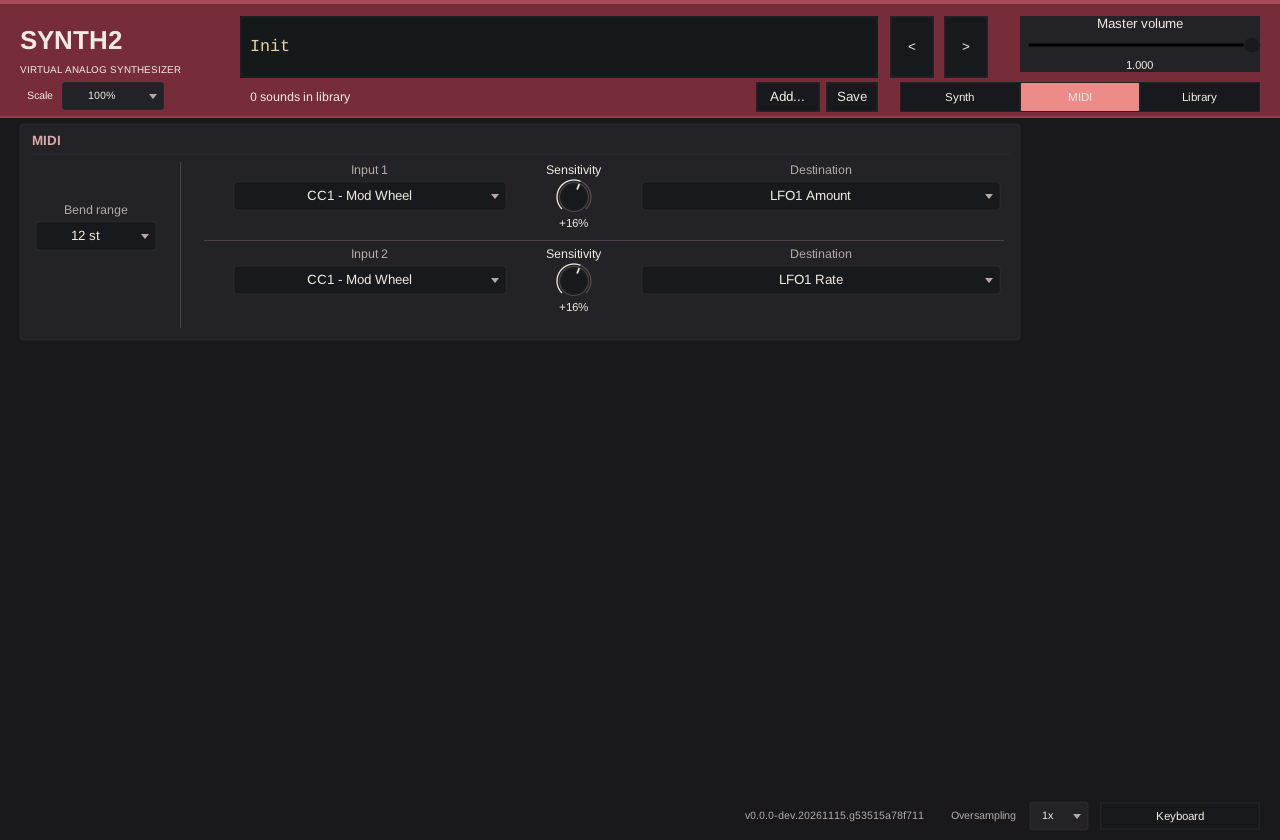
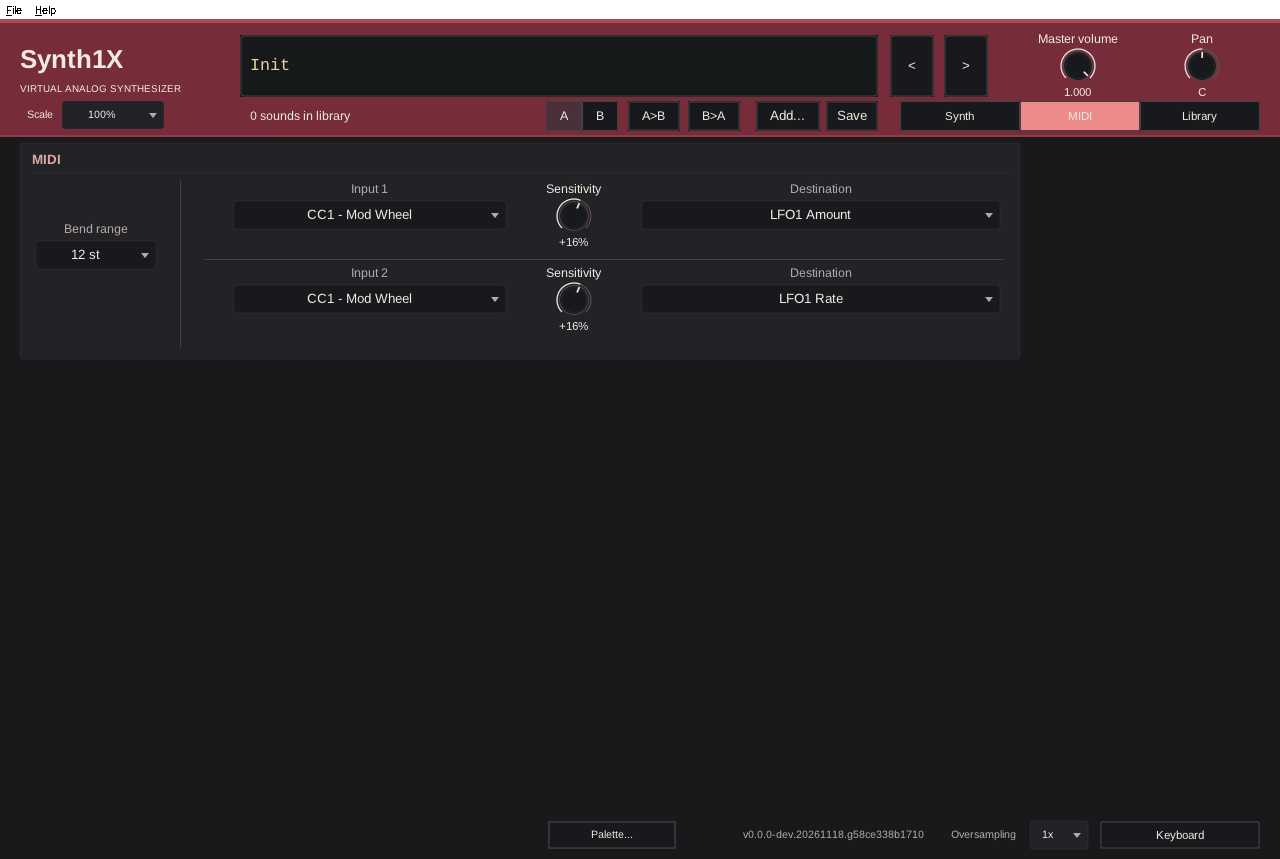
Update remaining branding and write Palette XML

diff --git a/projects/Synth2/src/host/EditorPaletteStore.cpp b/projects/Synth2/src/host/EditorPaletteStore.cpp
@@ -15,6 +15,7 @@
 namespace synth2::host
 {
 namespace {
+constexpr char paletteTag[]="Palette";
[1 lines of base64/hex data omitted]
 std::string encodeImage(const std::vector<std::uint8_t>& bytes)
 {
@@ -72,9 +73,10 @@ bool readPalette(const std::filesystem::path& path,editor::EditorPalette& palett
         tinyxml2::XMLDocument doc;
         if(doc.Parse(text.data(),text.size())!=tinyxml2::XML_SUCCESS)throw std::runtime_error("Invalid palette file.");
         const auto* root=doc.RootElement();
-        if(!root || std::string_view(root->Name())!="Synth2Palette" || (root->IntAttribute("version")!=1 && root->IntAttribute("version")!=2))
+        const std::string_view tag=root ? root->Name() : "";
+        const int version=root ? root->IntAttribute("version") : 0;
+        if((tag!=paletteTag && tag!="Synth2Palette") || (version!=1 && version!=2))
             throw std::runtime_error("Unsupported palette file version.");
-        const int version=root->IntAttribute("version");
         if(version==1 && text.size()>65536)throw std::runtime_error("Palette file is too large.");
         editor::EditorPalette next;
         // Stored files contain explicit overrides only, including the default Filter overrides.
@@ -137,7 +139,7 @@ bool EditorPaletteStore::save(const std::filesystem::path& path,const editor::Ed
     error.clear();std::filesystem::path temporary;
     try {
         if(path.empty())throw std::runtime_error("Palette preferences folder is unavailable.");
-        tinyxml2::XMLDocument doc;auto* root=doc.NewElement("Synth2Palette");root->SetAttribute("version",palette.backgroundImage ? 2 : 1);doc.InsertEndChild(root);
+        tinyxml2::XMLDocument doc;auto* root=doc.NewElement(paletteTag);root->SetAttribute("version",palette.backgroundImage ? 2 : 1);doc.InsertEndChild(root);
         const auto add=[&](std::size_t role,editor::EditorColor color,int group) {
             auto* item=doc.NewElement("Color");item->SetAttribute("role",std::string(editor::paletteRoleKeys[role]).c_str());
             item->SetAttribute("rgba",color.hex().c_str());

diff --git a/tests/EditorPaletteTest.cpp b/tests/EditorPaletteTest.cpp
@@ -144,6 +144,10 @@ TEST_F(EditorPaletteTest,ExportedDraftImportsAllScopesAndAlphaWithoutApplyingThe
     draft.inherit(paletteGroup("FILTER"));
     const auto file=directory/std::filesystem::path(u8"palette-\u65e5\u672c.xml");
     std::string error;ASSERT_TRUE(EditorPaletteStore::save(file,draft,error))<<error;
+    std::ifstream exported(file);
+    std::string firstLine;
+    ASSERT_TRUE(static_cast<bool>(std::getline(exported,firstLine)));
+    EXPECT_EQ(firstLine,"<Palette version=\"1\">");
     EXPECT_TRUE(edit.modified(draft)); // Export does not Apply the preview.
     EXPECT_FALSE(std::filesystem::exists(directory/"palette.xml"));
     EditorPalette imported;
@@ -197,9 +201,18 @@ TEST_F(EditorPaletteTest,EmbeddedImagesRoundTripWithoutTheOriginalFileAndLegacyI
         ASSERT_TRUE(EditorPaletteStore::readImage(source,draft,error))<<error;
         EditorPaletteEdit edit;edit.begin(EditorPalette{});EXPECT_TRUE(edit.modified(draft));
         ASSERT_TRUE(EditorPaletteStore::save(directory/"palette.xml",draft,error))<<error;
+        std::ifstream exported(directory/"palette.xml");
+        std::string xml((std::istreambuf_iterator<char>(exported)),{});
+        exported.close();
+        ASSERT_TRUE(xml.starts_with("<Palette version=\"2\">"));
         ASSERT_TRUE(std::filesystem::remove(source));
         EditorPalette loaded;ASSERT_TRUE(EditorPaletteStore::importFile(directory/"palette.xml",loaded,error))<<error;
         EXPECT_EQ(loaded,draft);EXPECT_EQ(loaded.backgroundImage->bytes.size(),bytes.size()-suffix);
+        xml.replace(xml.rfind("</Palette>"),10,"</Synth2Palette>");
+        xml.replace(1,7,"Synth2Palette");
+        write(xml);
+        ASSERT_TRUE(EditorPaletteStore::importFile(directory/"palette.xml",loaded,error))<<error;
+        EXPECT_EQ(loaded,draft);
         EXPECT_TRUE(edit.modified(draft));
         write("<Synth2Palette version='1'/>");
         ASSERT_TRUE(EditorPaletteStore::importFile(directory/"palette.xml",loaded,error))<<error;

diff --git a/projects/Synth2/src/patch/PatchFormat.cpp b/projects/Synth2/src/patch/PatchFormat.cpp
@@ -91,16 +91,16 @@ ContinuousPatch parseContinuousPatch(std::string_view text)
         }
         if(header && line.find('=')!=std::string::npos)continue;
         const auto comma=line.find(',');
-        if(!header || comma==std::string::npos)throw std::runtime_error("Malformed Synth2 patch entry");
+        if(!header || comma==std::string::npos)throw std::runtime_error("Malformed Synth1X patch entry");
         const int index=number<int>(trimPatchLine(line.substr(0,comma)));
         const float value=number<float>(trimPatchLine(line.substr(comma+1)));
         validate(index,value);
         if(seen[index])throw std::runtime_error("Duplicate patch parameter");
         patch.values[index]=value;seen[index]=true;
     }
-    if(!header)throw std::runtime_error("Missing Synth2 patch version");
+    if(!header)throw std::runtime_error("Missing Synth1X patch version");
     // Complete snapshots avoid defaults changing the sound in future releases.
-    for(int i=0;i<129;++i)if(i!=126 && !seen[i])throw std::runtime_error("Incomplete Synth2 patch");
+    for(int i=0;i<129;++i)if(i!=126 && !seen[i])throw std::runtime_error("Incomplete Synth1X patch");
     patch.values[126]=113;
     if(patch.name.empty())patch.name="Untitled";
     return patch;

diff --git a/projects/Synth2/src/host/ProcessorBridge.cpp b/projects/Synth2/src/host/ProcessorBridge.cpp
@@ -456,7 +456,7 @@ double ProcessorBridge::normalizedValue(int index)const{return impl->normalized(
 void ProcessorBridge::setNormalizedValue(int index,double value){impl->setNormalized(index,value);}
 void ProcessorBridge::prepare(double rate,int frames)
 {
-    if(!std::isfinite(rate) || rate<=0 || !std::isfinite(static_cast<float>(rate)) || static_cast<float>(rate)<=0 || frames<=0)throw std::invalid_argument("Invalid Synth2 playback configuration");
+    if(!std::isfinite(rate) || rate<=0 || !std::isfinite(static_cast<float>(rate)) || static_cast<float>(rate)<=0 || frames<=0)throw std::invalid_argument("Invalid Synth1X playback configuration");
     impl->scratch.setSize(2,frames);impl->eventCount=0;impl->overflow=false;impl->midi.clear();
     impl->flushNativeLfoHistory();if(rate!=44100. || frames!=64)impl->engine.invalidateNativeRandomHistory();
     impl->engine.prepareToPlay(static_cast<float>(rate),frames);impl->engine.setOversamplingFactor(impl->requestedOversampling.load());

diff --git a/projects/Synth2/src/patch/PatchLoader.cpp b/projects/Synth2/src/patch/PatchLoader.cpp
@@ -40,7 +40,7 @@ Synth1PatchDocument parsePatchDocument(std::string_view text)
     {
         line=trimPatchLine(line);
         if(line.empty())continue;
-        if(cleaned.empty() && !named)cleaned="Synth2 preset\n";
+        if(cleaned.empty() && !named)cleaned="Synth1X preset\n";
         cleaned+=line+'\n';
     }
     return parseSynth1PatchText(cleaned,true);

diff --git a/projects/Synth2/config.h b/projects/Synth2/config.h
@@ -9,7 +9,7 @@
 #define PLUG_MFR_ID 'BABA'
 #define PLUG_URL_STR ""
 #define PLUG_EMAIL_STR ""
-#define PLUG_COPYRIGHT_STR "Copyright 2026 Synth2 contributors"
+#define PLUG_COPYRIGHT_STR "Copyright 2026 Synth1X contributors"
 #define PLUG_CLASS_NAME Synth2
 #define BUNDLE_NAME "Synth2"
 #define BUNDLE_MFR "yasuyuki-baba"

diff --git a/docs/status.md b/docs/status.md
@@ -1,13 +1,13 @@
 # Product capabilities and verification boundaries
 
 Start with the [product contracts](README.md) and [test guide](../tests/README.md).
-Synth2 builds and runs its portable suite without an original Synth1 DLL, Wine,
+Synth1X builds and runs its portable suite without an original Synth1 DLL, Wine,
 JUCE or another repository. Native wrappers require their platform SDKs.
 
 | Area | Required behavior / boundary |
 | --- | --- |
 | Product source | iPlug2 wrapper/editor and SDK-independent core under projects/Synth2 |
-| Patch loading | Synth2 version 200 preserves fractional dials; accepts legacy 1–113 and named unversioned sources; native evidence for 100/104–113; transactional failure; original source values retained |
+| Patch loading | Synth1X version 200 preserves fractional dials; accepts legacy 1–113 and named unversioned sources; native evidence for 100/104–113; transactional failure; original source values retained |
 | Library archives | ZIP, RAR and 7z banks remain intact; RAR4 stored/compressed, RAR5 solid/compressed, and 7z stored/LZMA/LZMA2/PPMd reads; encrypted banks, RAR4 solid and other 7z codecs unsupported |
 | State/parameters | Stable host metadata; readable legacy state chunks; both A/B sounds and source-aware recall without the external bank |
 | Rendering | Control-driven policy, preserved numerical/event ordering, retained physical histories and effect tails |

diff --git a/docs/contracts/validation.md b/docs/contracts/validation.md
@@ -62,7 +62,7 @@ owner decision. Unmeasured combinations are not certified by this scope decision
 
 ## Test inputs
 
-Synth2 keeps self-authored product tests and necessary product assets. State round
+Synth1X keeps self-authored product tests and necessary product assets. State round
 trips, API rejection, signal properties, MIDI scheduling, library and layout tests
 use generated inputs and explicit product requirements. Temporary WAV/ZIP/state
 data and bank fixtures are created by the tests. No external patch bank,
@@ -83,7 +83,7 @@ A portable test does not establish a DAW build, a particular audio device, concu
 host safety or a hard real-time deadline. Record exactly what ran and which source,
 binary, loading history, sample rate and comparison conditions were used.
 
-Publishing Synth2 must not introduce an external checkout, credential or
+Publishing Synth1X must not introduce an external checkout, credential or
 original-recording requirement into its build or portable tests. Project-owned
 source follows the [GPL-3.0-or-later grant](../../README.md#license); see
 [distribution requirements](../publication/README.md) for asset and license scope.

diff --git a/docs/desktop-build.md b/docs/desktop-build.md
@@ -85,7 +85,7 @@ SDKs can be selected using `--iplug2 /path/to/iPlug2`. Pin and review dependency
 updates in the lock file; upstream download-script defaults are moving branches.
 APP and AUv2 do not require VST3/CLAP SDKs just to build those formats.
 
-Synth2 does not enable the SDK WebView extra; its dependency downloads and unused
+Synth1X leaves the SDK WebView extra disabled; its dependency downloads and unused
 object library are excluded from native configuration/builds.
 CI uses the vendored NanoVG backend: GL2 on Windows and Metal on macOS. Other
 backends may need extra libraries; see `iPlug2/Dependencies/README.md` and
@@ -94,7 +94,7 @@ archive formats are described in [continuous integration](ci.md).
 
 ## Native presets
 
-Return to the Synth2 root and select the preset for the desired format:
+Return to the repository root and select the preset for the desired format:
 
 | Platform | Configure/build preset | Build directory | Formats |
 | --- | --- | --- | --- |

diff --git a/docs/patch-format.md b/docs/patch-format.md
@@ -1,6 +1,6 @@
-# Synth2 patch format
+# Synth1X patch format
 
-New Synth2 patch exports use `ver=200` in a UTF-8 `.sy1` file. This is a Synth2
+New Synth1X patch exports use `ver=200` in a UTF-8 `.sy1` file. This is a Synth1X
 format; Synth1 integer files remain importable with their original version rules.
 The explicit Synth1 semantic export API still writes version 113.
 
@@ -43,7 +43,7 @@ with matching preparation and MIDI histories. Host state retains original source
 and loading metadata separately from a newly exported patch.
 
 `ProcessorBridge::savePatch()` returns the complete text outside the audio
-callback. `loadPatch()`/`loadProgram()` accept both Synth2 and legacy files; bank
+callback. `loadPatch()`/`loadProgram()` accept both Synth1X and legacy files; bank
 and library import use that same validation boundary.
 
 ## Opaque headers

diff --git a/docs/gui/patch-library.md b/docs/gui/patch-library.md
@@ -151,7 +151,7 @@ editor with dialog lifetime guards.
 **Save → Save** writes to the loaded loose library `.sy1`. Archive sources, Init and
 sources no longer in the library use Save as. **Save → Save as...** chooses a name
 and a destination within the configured directory, including its subfolders.
-Existing destinations require confirmation. Saving uses the existing Synth2
+Existing destinations require confirmation. Saving uses the existing Synth1X
 `ver=200` patch API, preserving fractional controls, reserved values and master
 volume. An archive itself is never modified. Complete writes are staged before file
 publication; failures retain the sounding state and its edit baseline.

diff --git a/docs/gui/README.md b/docs/gui/README.md
@@ -292,6 +292,8 @@ palette as XML: General colors, every group's explicit overrides, alpha values
 and the optional embedded background image. Importing a color-only palette clears
 the current background image.
 The exchange format is the same versioned format as `palette.xml` preferences.
+New files use the `<Palette>` root. Synth1X also reads older `<Synth2Palette>`
+files. Apps from before the rename require the old root to import a palette.
 Import validates the selected file before replacing the preview; Apply is still
 needed to activate it as the saved user preference. Missing, malformed, oversized
 or unsupported imports report an error without changing the current preview or
